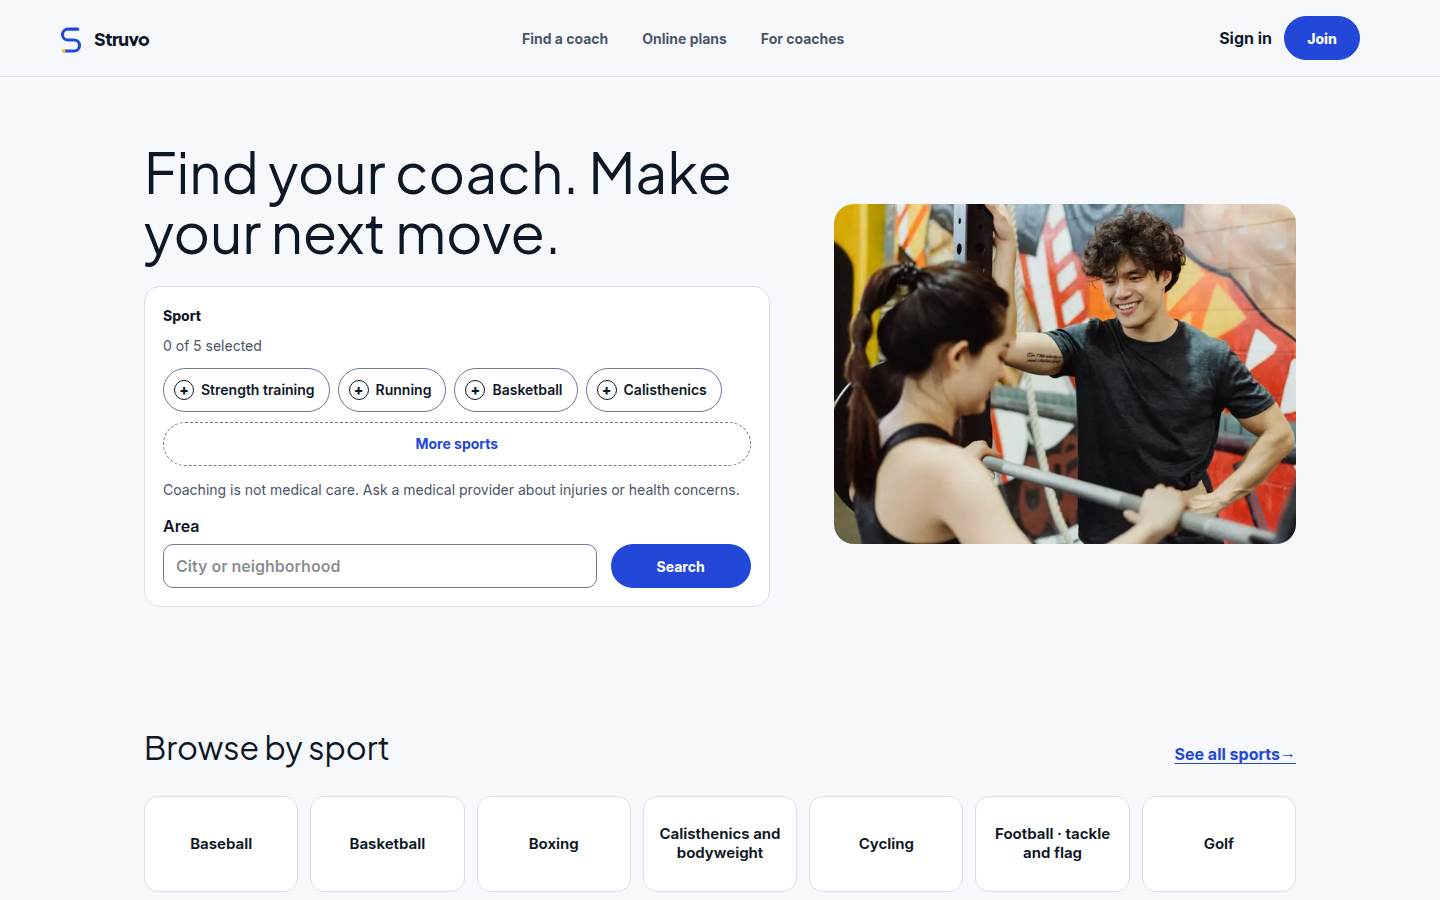
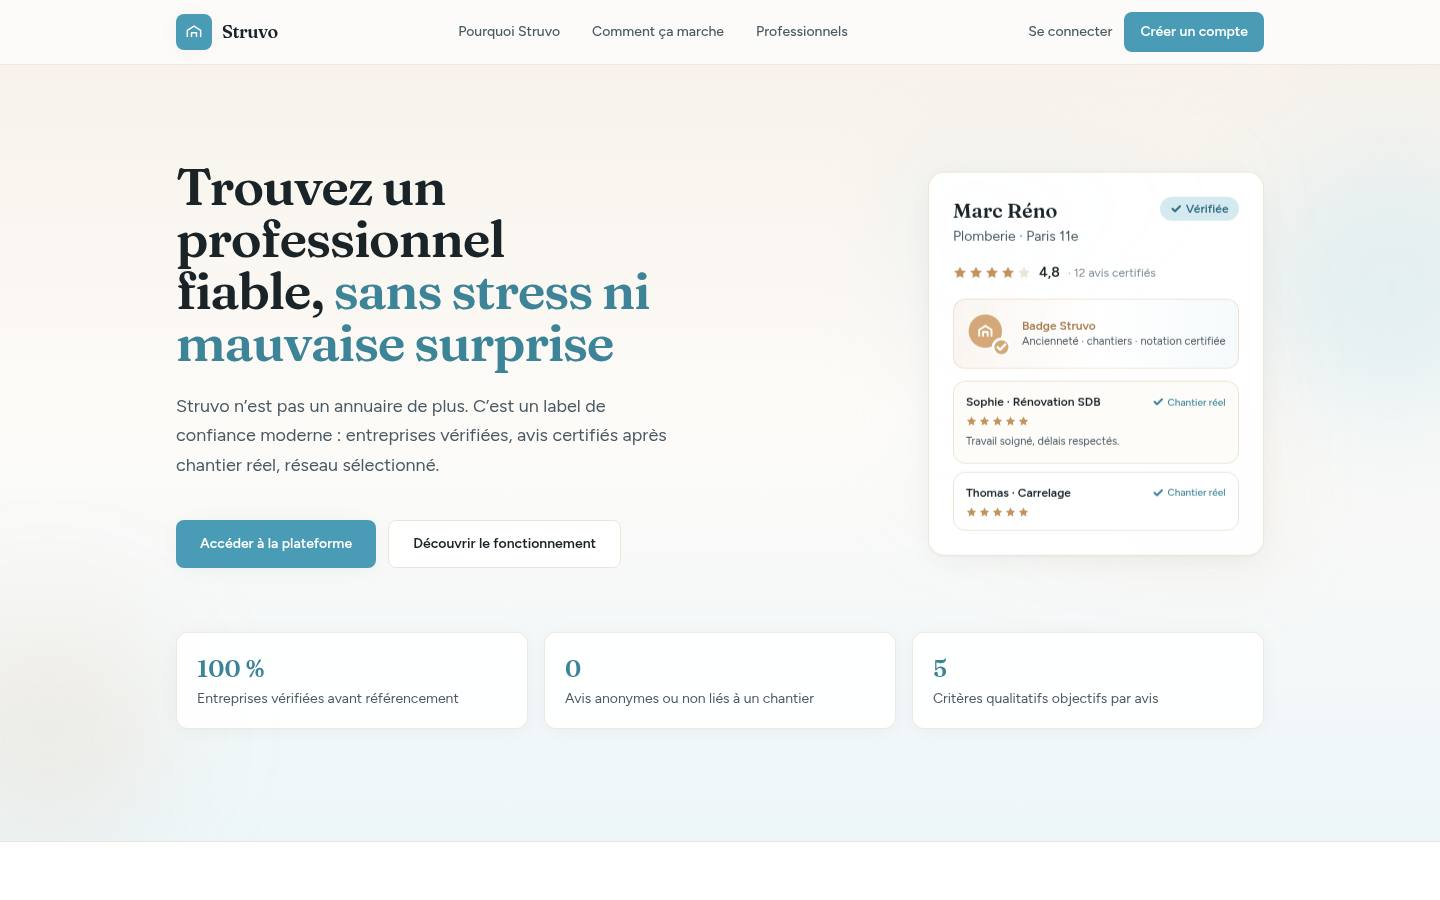
Portrait fill, remove eyebrow labels, Struvo from struvo.fr
Drop the scaled inset that left empty bands around the photo, and drop
the tracked capital labels plus the investing line. Replace the Struvo
page with facts, logo, and screenshots from struvo.fr.

diff --git a/projects/struvo.html b/projects/struvo.html
@@ -3,7 +3,7 @@
 <head>
   <meta charset="UTF-8" />
   <meta name="viewport" content="width=device-width, initial-scale=1.0" />
-  <meta name="description" content="Find and book a coach. Train in person, follow an online plan, or get monthly coaching." />
+  <meta name="description" content="Verified building companies, rated on real jobs." />
   <title>Struvo: Adrien Faguet</title>
   <link rel="preconnect" href="https://fonts.googleapis.com" />
   <link rel="preconnect" href="https://fonts.gstatic.com" crossorigin />
@@ -30,13 +30,14 @@
       <a class="back" href="../index.html"><span class="back__arrow" aria-hidden="true">←</span> Portfolio</a>
       <header class="case">
         <div class="case__id">
-          <span class="logo-fallback" style="display:flex">St</span>
+          <img class="logo" src="../assets/logos/struvo.svg" alt="" onerror="this.style.display='none';this.nextElementSibling.style.display='flex'" />
+            <span class="logo-fallback">St</span>
           <h1>Struvo</h1>
         </div>
-        <p class="case__pitch">Find and book a coach. Train in person, follow an online plan, or get monthly coaching.</p>
+        <p class="case__pitch">Verified building companies, rated on real jobs.</p>
         <div class="case__meta">
-          <span class="badge badge--preview">Preview</span>
-          <a class="ext" href="https://www.struvo.app" target="_blank" rel="noopener noreferrer">struvo.app <span class="ext__arrow" aria-hidden="true">↗</span></a>
+          <span class="badge badge--live">Live</span>
+          <a class="ext" href="https://struvo.fr" target="_blank" rel="noopener noreferrer">struvo.fr <span class="ext__arrow" aria-hidden="true">↗</span></a>
         </div>
       </header>
       <div class="blocks">
@@ -47,25 +48,30 @@
 
       <section class="block reveal">
         <h2>Role</h2>
-        <div class="callout"><p class="callout__label">TODO</p><p>A personal role is not stated in this portfolio or on the product site. struvo.app does not name a personal title.</p></div>
+        <div class="callout"><p class="callout__label">TODO</p><p>A personal role is not stated in this portfolio or on the product site. struvo.fr does not name a personal title.</p></div>
       </section>
 
       <section class="block reveal">
         <h2>What it does</h2>
-          <p>Struvo’s site says: find and book a coach near you. Train in person, follow an online plan, or get monthly coaching.</p>
-          <p>The homepage headline is “Find your coach. Make your next move.” It lists in-person sessions, written online plans, and monthly coaching with check-ins. Search is by sport and area, then compare profiles and book a time.</p>
-          <p>The site’s FAQ says payments are not live yet and booking is not open yet. Browsing coaches and plans, and creating a free account, are available. It says Struvo is for adults 18 and over, and that every coach is reviewed before a profile is public.</p>
+          <p>Struvo’s site presents it as the trusted third party for the building trade. The page says it is not another directory: verified companies, certified reviews after a real job, and a selected network.</p>
+          <p>The headline is “Find a reliable professional, without stress or a bad surprise.”</p>
+          <p>Verification covers SIRET, Kbis, and insurance: an automatic OCR check against criteria, then a review. The site says this is not a simple online listing.</p>
+          <p>The Struvo badge is earned after seniority or several jobs, and a certified rating. A Premium badge is for companies that accept job-site audits.</p>
+          <p>Clients can upload before, during, and after photos. The site says those photos are timestamped and geolocated, and that only the client uploads them. It also mentions random or planned on-site checks.</p>
+          <p>How it works, as listed on the site: search verified companies rated on objective criteria, follow the job with a clear record, then leave a certified review after the real work.</p>
+          <p>For companies, the site describes a monthly subscription for visibility. The first five companies in each trade get one year free. The badge is then earned from proof and certified reviews.</p>
       </section>
 
       <section class="block reveal">
         <h2>Key features</h2>
         <ul>
-            <li>In person: one-on-one or small group, at a gym, park, or studio, with prices and areas listed</li>
-            <li>Online plan: a written plan, week by week, one price shown before you buy</li>
-            <li>Monthly coaching: check-ins, feedback, sessions and reply times set by the coach</li>
-            <li>Search, compare, and book</li>
-            <li>Coaches are reviewed before they appear</li>
-            <li>The site says reviews are intended only from completed paid sessions</li>
+            <li>Companies checked before they are listed</li>
+            <li>No anonymous reviews, and no reviews that are not tied to a job</li>
+            <li>Five objective quality criteria per review</li>
+            <li>SIRET, Kbis, and insurance checks, then a review</li>
+            <li>Badge after seniority or several jobs, plus a certified rating</li>
+            <li>Premium badge for companies that accept job-site audits</li>
+            <li>Client photos before, during, and after, timestamped and geolocated</li>
           </ul>
       </section>
 
@@ -78,13 +84,13 @@
           <a href="../assets/projects/struvo/01-home.jpg">
             <img src="../assets/projects/struvo/01-home.jpg" alt="Struvo homepage" width="1440" height="900" loading="eager" decoding="async" />
           </a>
-          <figcaption>struvo.app</figcaption>
+          <figcaption>struvo.fr</figcaption>
         </figure>
         <figure class="shot">
           <a href="../assets/projects/struvo/02-further.jpg">
             <img src="../assets/projects/struvo/02-further.jpg" alt="Further down the Struvo homepage" width="1440" height="900" loading="lazy" decoding="async" />
           </a>
-          <figcaption>Further down the homepage</figcaption>
+          <figcaption>Further down struvo.fr</figcaption>
         </figure>
         </div>
       </section>

diff --git a/styles.css b/styles.css
@@ -166,12 +166,8 @@ main { position: relative; z-index: 1; }
   width: 100%;
   height: 100%;
   object-fit: cover;
-  /* Face sits in the upper-middle of the tall source frame.
-     40% keeps the full head inside the circle; the slight scale
-     adds margin so the circle does not clip hair or chin. */
   object-position: center 40%;
-  transform: scale(0.9);
-  transform-origin: center 42%;
+  border-radius: 50%;
   display: block;
 }
 
@@ -205,12 +201,11 @@ main { position: relative; z-index: 1; }
 }
 
 .hero__tagline {
-  margin: 0.85rem 0 0;
+  margin: 0.75rem 0 0;
   color: var(--muted);
-  font-size: 0.78rem;
-  font-weight: 500;
-  letter-spacing: 0.18em;
-  text-transform: uppercase;
+  font-size: 1rem;
+  font-weight: 400;
+  letter-spacing: 0;
 }
 
 .prose {
@@ -235,26 +230,16 @@ main { position: relative; z-index: 1; }
 
 .prose strong { color: var(--accent); font-weight: 500; }
 
-.invest-lead {
-  max-width: var(--measure);
-  margin: 0 auto 1.75rem;
-  text-align: center;
-  color: var(--muted);
-  font-size: 0.98rem;
-  font-style: italic;
-}
-
 /* Filters */
 .work { padding: 2.75rem 0 1rem; }
 
 .work__label {
-  margin: 0 0 0.35rem;
-  text-align: center;
-  font-size: 0.78rem;
-  font-weight: 500;
-  letter-spacing: 0.18em;
-  text-transform: uppercase;
-  color: var(--muted);
+  margin: 0 0 1rem;
+  font-family: var(--serif);
+  font-size: clamp(2rem, 4vw, 2.6rem);
+  font-weight: 400;
+  letter-spacing: -0.02em;
+  color: var(--text);
 }
 
 .filters {
@@ -454,18 +439,14 @@ main { position: relative; z-index: 1; }
 }
 
 .tag {
-  font-size: 0.68rem;
-  letter-spacing: 0.06em;
-  text-transform: uppercase;
+  font-size: 0.8rem;
   color: var(--faint);
 }
 
 .badge {
   flex-shrink: 0;
-  font-size: 0.65rem;
+  font-size: 0.75rem;
   font-weight: 600;
-  letter-spacing: 0.08em;
-  text-transform: uppercase;
   padding: 0.22rem 0.5rem;
   border-radius: 999px;
   border: 1px solid transparent;

diff --git a/index.html b/index.html
@@ -45,7 +45,6 @@
 
       <section class="work" id="work" aria-labelledby="work-title">
         <h2 id="work-title" class="work__label">Work</h2>
-        <p class="invest-lead">Passionate about investing and helping teams grow from day one.</p>
         <div class="filters" role="toolbar" aria-label="Filter projects">
           <button type="button" class="chip is-on" data-filter="all" aria-pressed="true">All</button>
           <button type="button" class="chip" data-filter="live" aria-pressed="false">Live</button>
@@ -160,14 +159,15 @@
           </a>
         </li>
         <li>
-          <a class="vcard" href="projects/struvo.html" data-filters="preview building">
-            <span class="vcard__media"><img src="assets/projects/struvo/01-home.jpg" alt="" /><span class="vcard__logo"><span class="logo-fallback" style="display:flex">St</span></span></span>
+          <a class="vcard" href="projects/struvo.html" data-filters="live">
+            <span class="vcard__media"><img src="assets/projects/struvo/01-home.jpg" alt="" /><span class="vcard__logo"><img class="logo" src="assets/logos/struvo.svg" alt="" onerror="this.style.display='none';this.nextElementSibling.style.display='flex'" />
+            <span class="logo-fallback">St</span></span></span>
             <span class="vcard__body">
               <span class="vcard__top">
                 <span class="vcard__name">Struvo</span>
-                <span class="badge badge--preview">Preview</span>
+                <span class="badge badge--live">Live</span>
               </span>
-              <span class="vcard__note">Find and book a coach. Train in person, follow an online plan, or get monthly coaching.</span>
+              <span class="vcard__note">Verified building companies, rated on real jobs.</span>
               
               
             </span>

diff --git a/scripts/generate-projects.js b/scripts/generate-projects.js
@@ -299,7 +299,6 @@ function homePage() {
 
       <section class="work" id="work" aria-labelledby="work-title">
         <h2 id="work-title" class="work__label">Work</h2>
-        <p class="invest-lead">Passionate about investing and helping teams grow from day one.</p>
         <div class="filters" role="toolbar" aria-label="Filter projects">
           <button type="button" class="chip is-on" data-filter="all" aria-pressed="true">All</button>
           <button type="button" class="chip" data-filter="live" aria-pressed="false">Live</button>

diff --git a/experience.css b/experience.css
@@ -143,10 +143,8 @@
 
 .callout__label {
   margin: 0 0 0.25rem;
-  font-size: 0.72rem;
+  font-size: 0.85rem;
   font-weight: 600;
-  letter-spacing: 0.12em;
-  text-transform: uppercase;
   color: var(--accent);
 }
 
